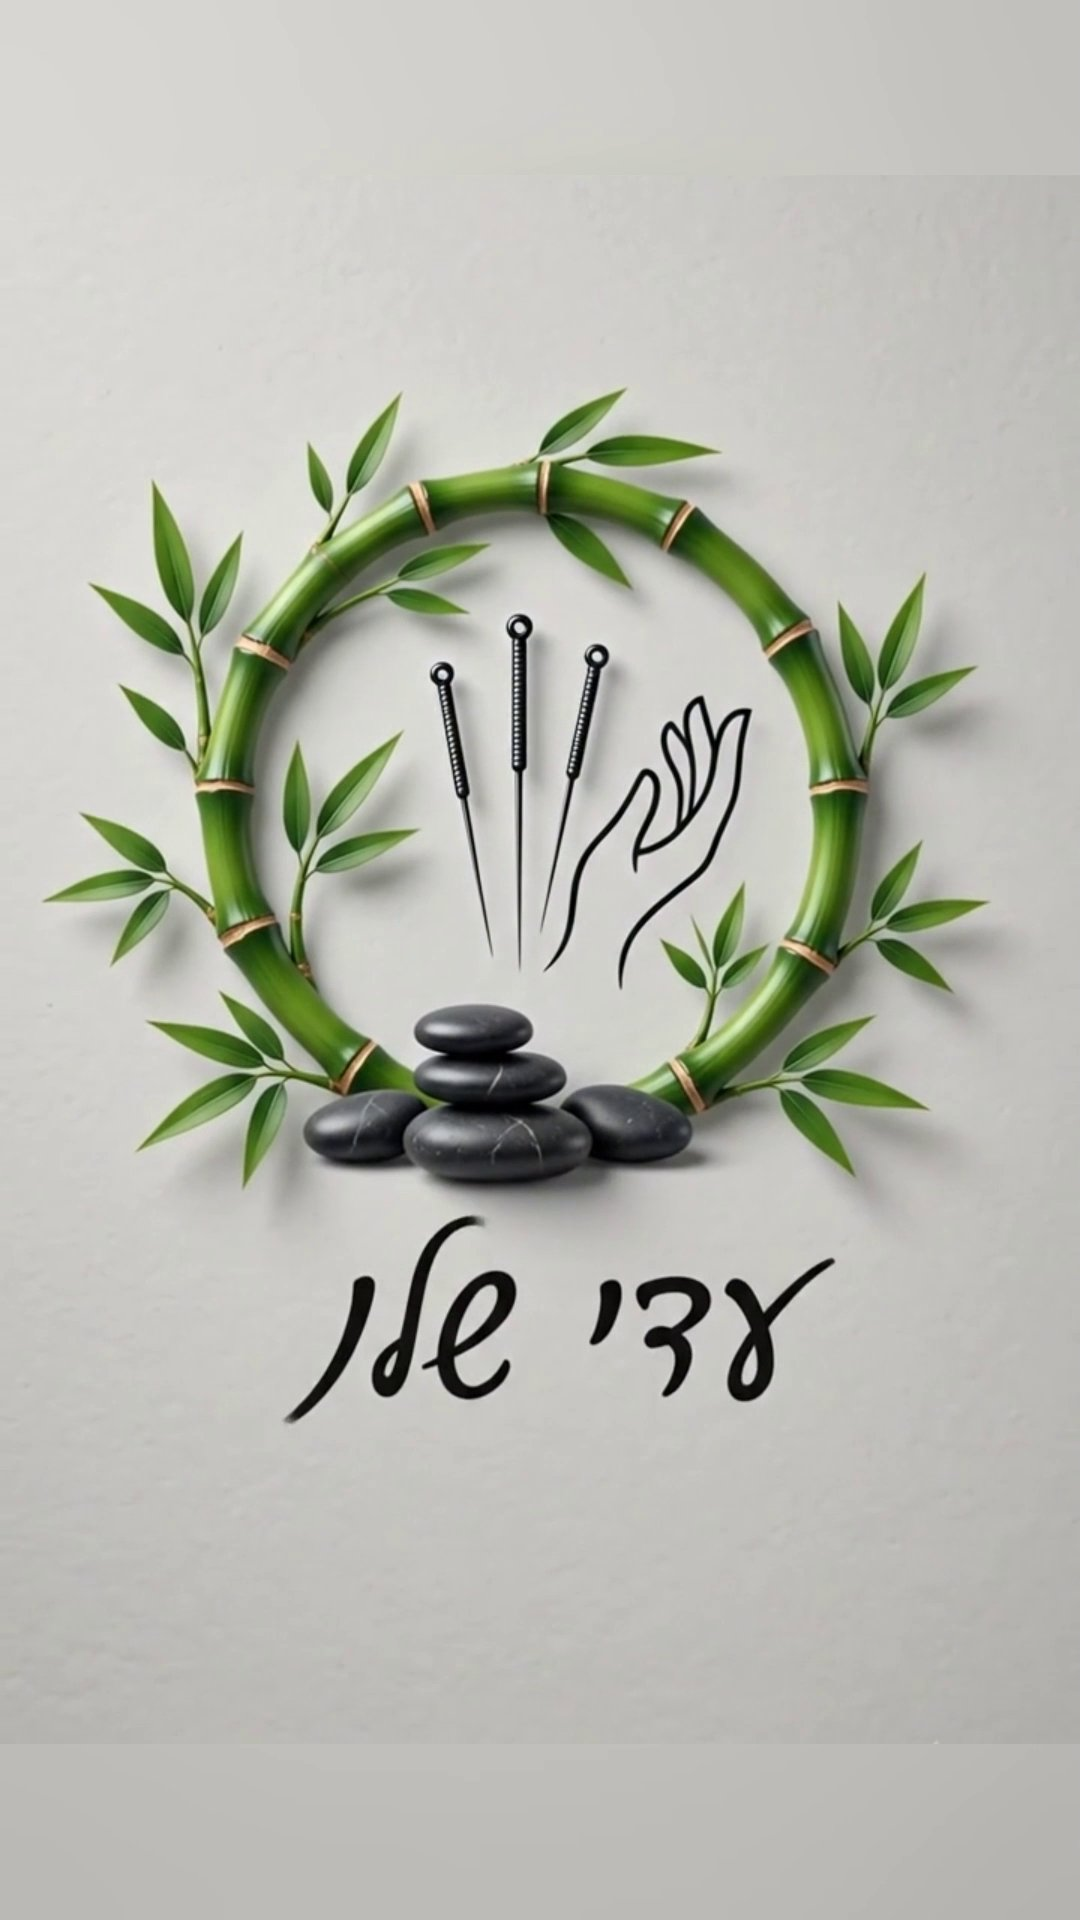
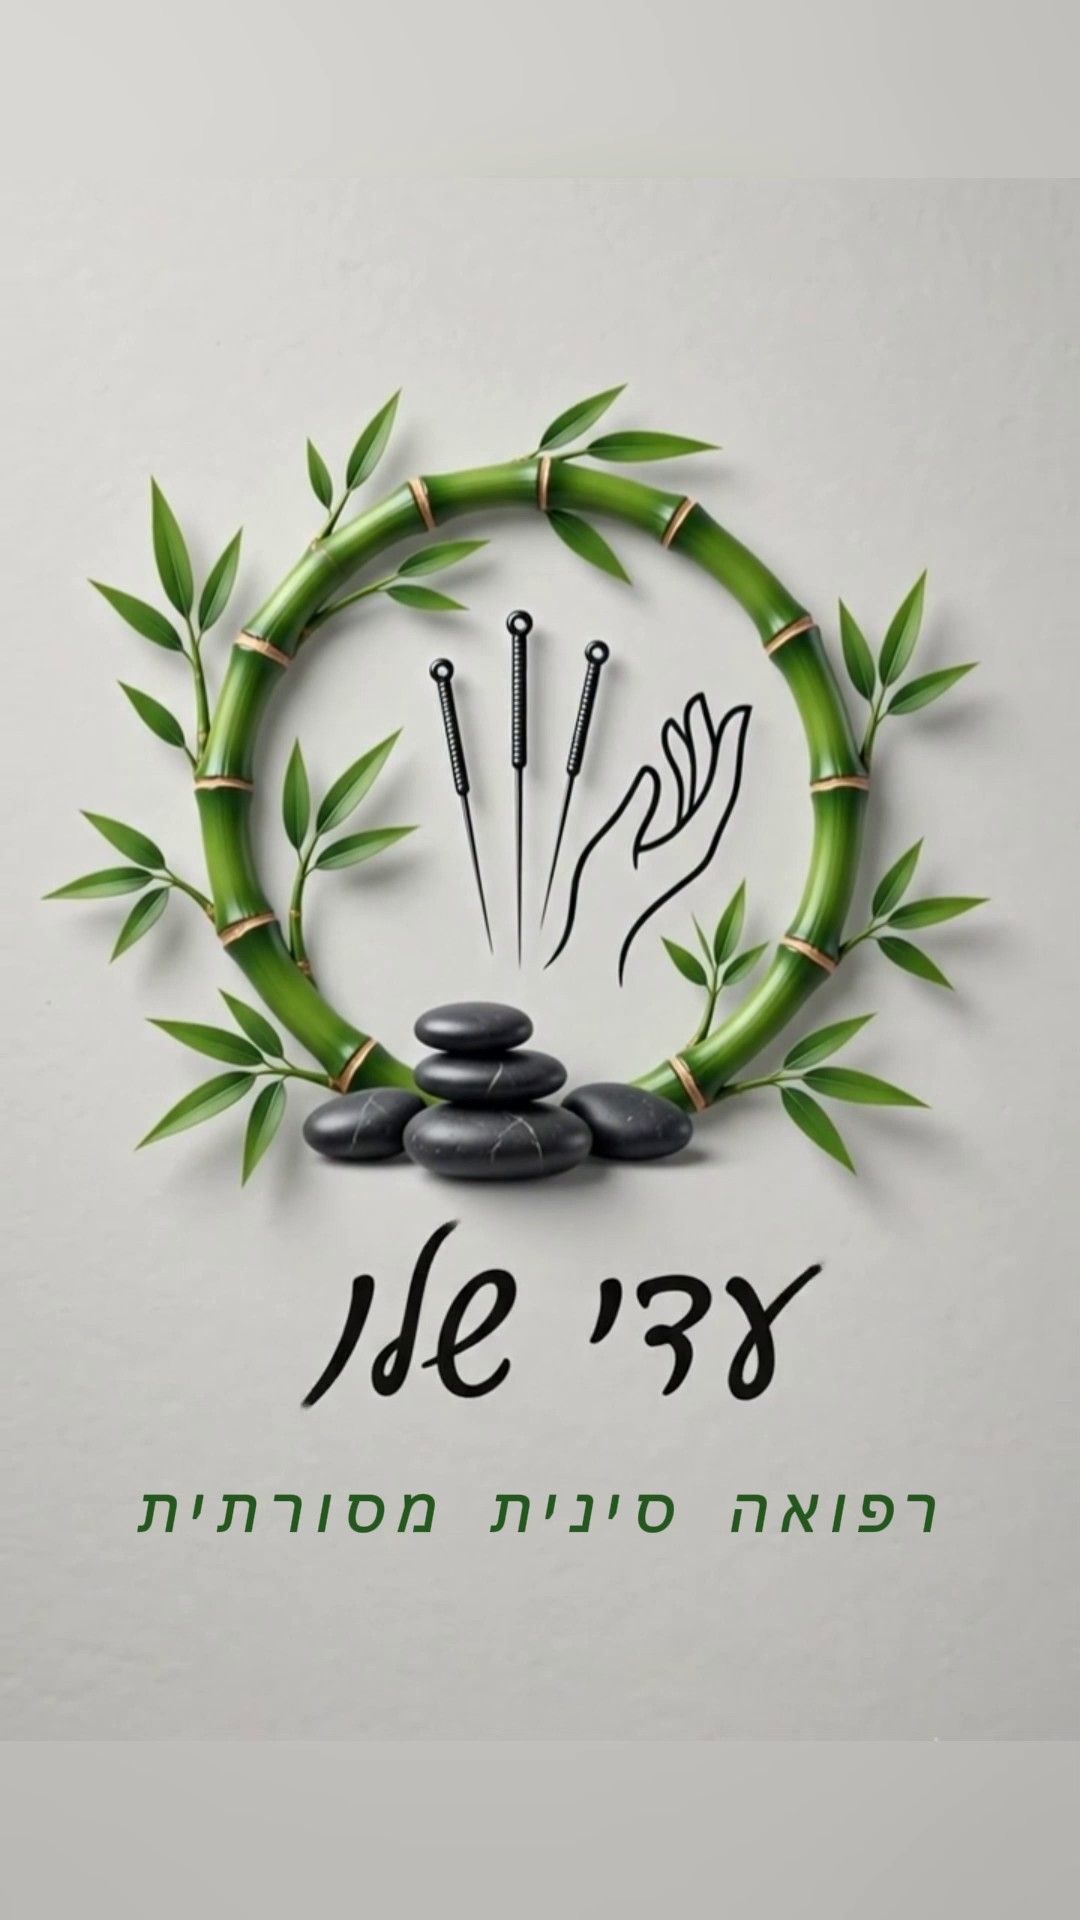
feat(home): סרטון 74s במובייל + פוסטר עם "רפואה סינית מסורתית"
שני שינויים:

1. החלפה לגרסה האנכית המלאה (74 שניות) במקום 30 שניות
   - באתר אין מגבלת אורך כמו ב-GBP
   - מי שלוחץ Play כבר מתעניין - תן לו את הסיפור המלא
   - clinic-vertical-30s.mp4 לא נמצא בשימוש - הוסר מהאתר
     (הקובץ נשאר בדסקטופ של עדי להעלאה ל-GBP)

2. פוסטר חדש: הלוגו השלם החד (t=69.1s)
   הפעם רואים גם:
   - "עדי שלו" (שחור, גדול)
   - "רפואה סינית מסורתית" (ירוק, מתחת)
   - כל אלמנטי הלוגו: במבוק, מחטים, יד, אבני זן

   הפריים נבחר אוטומטית לפי Laplacian variance - המקסימום של
   חדות מבין כל הפריימים ב-18 השניות האחרונות, לפני שהלוגו
   מתחיל להתעמעם.

3. עדכון VideoObject Schema עם embedUrl לסרטון החדש.

diff --git a/src/components/ClinicVideo.jsx b/src/components/ClinicVideo.jsx
@@ -25,7 +25,7 @@ export default function ClinicVideo() {
     return () => window.removeEventListener("resize", checkMobile);
   }, []);
 
-  const videoSrc = isMobile ? "/clinic-vertical-30s.mp4" : "/clinic-horizontal.mp4";
+  const videoSrc = isMobile ? "/clinic-vertical-master.mp4" : "/clinic-horizontal.mp4";
   const poster = isMobile ? "/clinic-poster-vertical.jpg" : "/clinic-poster-horizontal.jpg";
 
   const handlePlay = () => {
@@ -66,6 +66,7 @@ export default function ClinicVideo() {
             uploadDate: "2026-05-22",
             contentUrl: "https://adishalev.co.il/clinic-horizontal.mp4",
             duration: "PT1M14S",
+            embedUrl: "https://adishalev.co.il/clinic-vertical-master.mp4",
             publisher: {
               "@type": "Organization",
               name: "עדי שלו - רפואה סינית מסורתית",